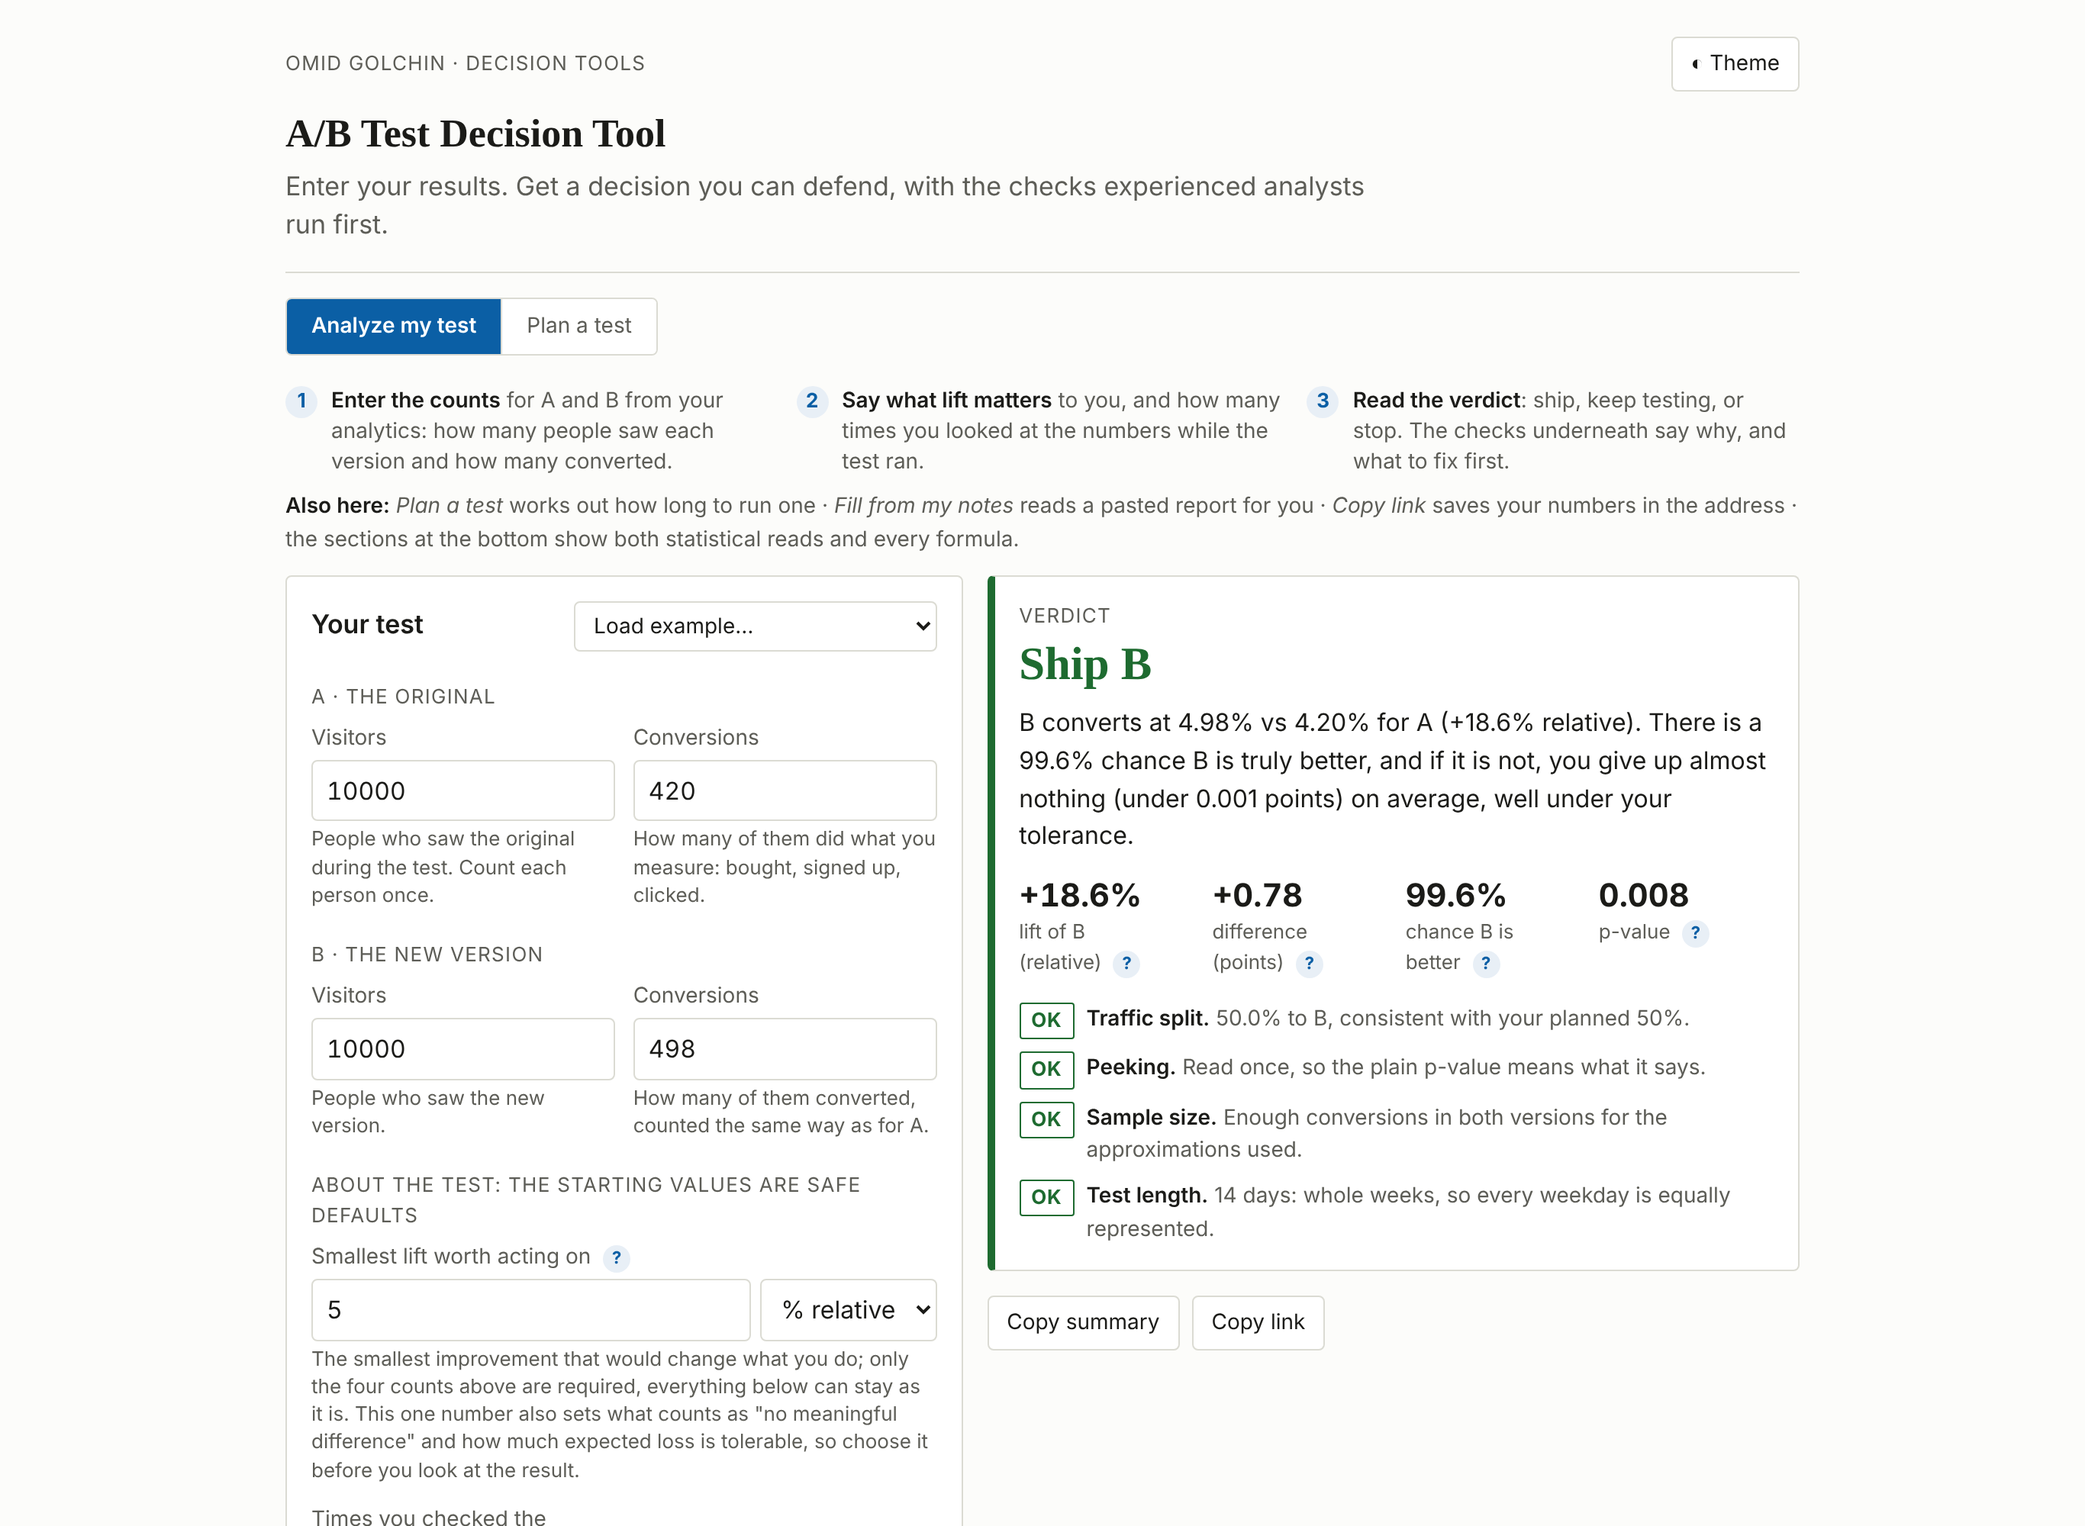
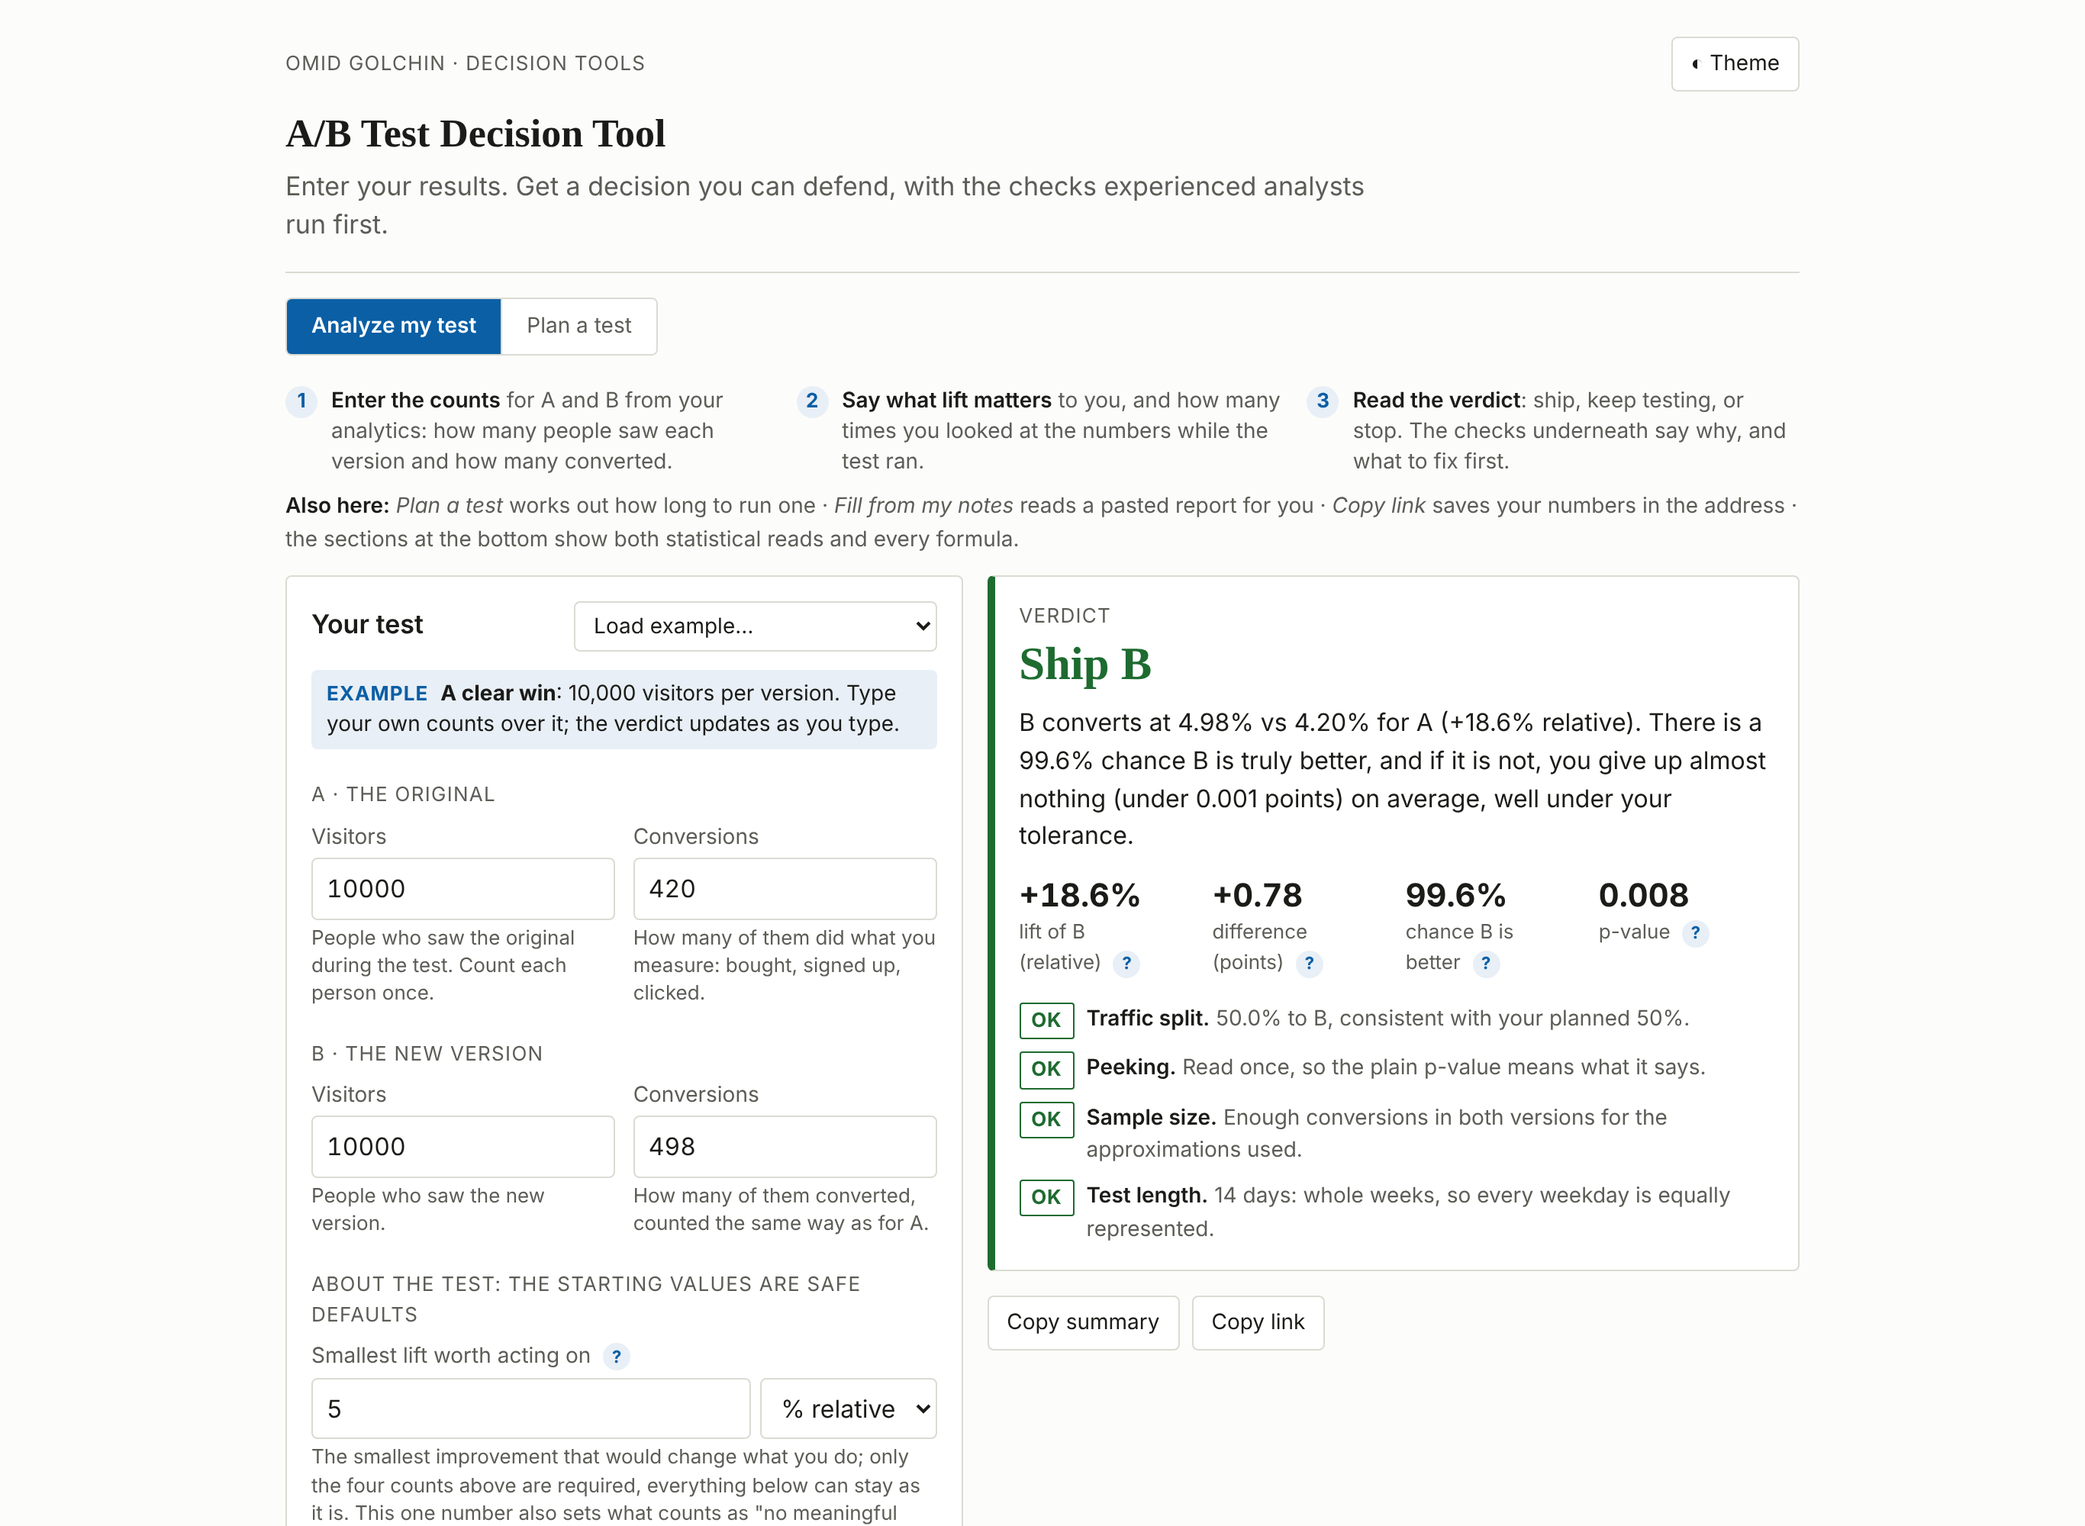
Mark the prefilled examples, plain error messages, one always-valid figure
- Analyze and Plan open with an example banner naming the prefilled scenario; it hides at the first edit and is skipped for shared links.
- Every input error now says what to enter. The significance-level check now matches the input's 0.1 to 20 range (it let values up to 50 through).
- Always-valid p-value: page and README state the same figure, 1.8% false alarms on the same 5,000 identical-arm tests that give 29% for a plain p-value; the README names the unit test's 5% bound separately.
- Kit: Tool.exampleWatch shows the example banner and hides it at the first real edit; the phone skip link is a 44px tap target; the shared tool list links the renamed llm-eval-error-bars.
- Hero GIF and screenshots regenerated from the updated page.

Changed region(s): [[0.1556, 0.434, 0.4356, 1.0]]

diff --git a/docs/app.js b/docs/app.js
@@ -19,6 +19,7 @@
     { label: "Cookie Cats: gate at level 30 vs 40, 1-day retention", v: { nA: 44700, xA: 20034, nB: 45489, xB: 20119, checks: 1, days: "", share: 50, mde: 1, mdeUnit: "rel", value: "" } },
     { label: "Cookie Cats: gate at level 30 vs 40, 7-day retention", v: { nA: 44700, xA: 8502, nB: 45489, xB: 8279, checks: 1, days: "", share: 50, mde: 2, mdeUnit: "rel", value: "" } }
   ];
+  var PLAN_EX_FIRST = "Busy checkout: 20,000 visitors a day at 4.2%";
   var IDS_A = ["nA", "xA", "nB", "xB", "checks", "days", "share", "mde", "mdeUnit", "value", "shipProb", "lossFrac", "prior", "alpha"];
   var IDS_P = ["pRate", "pMde", "pMdeUnit", "pTraffic", "pVersions", "pPower", "pAlpha"];
   var state = Tool.readParams(DEFAULTS);
@@ -32,10 +33,16 @@
   EXAMPLES.forEach(function (ex, i) { var o = document.createElement("option"); o.value = i; o.textContent = ex.label; $("example").appendChild(o); });
   $("example").addEventListener("change", function () {
     if (this.value === "") return;
-    setInputs(EXAMPLES[+this.value].v);
+    var ex = EXAMPLES[+this.value];
+    setInputs(ex.v);
     document.querySelectorAll(".field.filled").forEach(function (f) { f.classList.remove("filled"); });
+    Tool.exampleWatch($("f-analyze"), "<b>" + ex.label + "</b>. Type your own counts over it; the verdict updates as you type.");
     this.value = ""; runAnalyze();
   });
+  var q0 = new URLSearchParams(location.search);
+  function fromUrl(ids) { return ids.some(function (k) { return q0.has(k); }); }
+  if (!fromUrl(IDS_A)) Tool.exampleWatch($("f-analyze"), "<b>A clear win</b>: 10,000 visitors per version. Type your own counts over it; the verdict updates as you type.");
+  if (!fromUrl(IDS_P)) Tool.exampleWatch($("f-plan"), "<b>" + PLAN_EX_FIRST + "</b>. Type your own rate and traffic over it.");
   IDS_A.forEach(function (id) { $(id).addEventListener("input", debounce(runAnalyze, 120)); $(id).addEventListener("change", runAnalyze); });
   IDS_P.forEach(function (id) { $(id).addEventListener("input", debounce(runPlan, 120)); $(id).addEventListener("change", runPlan); });
   function setMode(m) {
@@ -84,17 +91,17 @@
       shipProb: num("shipProb"), lossFrac: num("lossFrac"), prior: $("prior").value, alpha: num("alpha") };
     var ok = true;
     function need(id, cond, msg) { var bad = !cond; fieldError(id, bad ? msg : ""); if (bad) ok = false; }
-    need("nA", v.nA > 0 && Number.isInteger(v.nA), "Whole number above 0.");
-    need("nB", v.nB > 0 && Number.isInteger(v.nB), "Whole number above 0.");
-    need("xA", v.xA !== null && v.xA >= 0 && Number.isInteger(v.xA) && (v.nA === null || v.xA <= v.nA), "Between 0 and the visitors.");
-    need("xB", v.xB !== null && v.xB >= 0 && Number.isInteger(v.xB) && (v.nB === null || v.xB <= v.nB), "Between 0 and the visitors.");
-    need("share", v.share > 0 && v.share < 100, "Between 1 and 99.");
-    need("mde", v.mde > 0, "Above 0.");
-    need("checks", v.checks >= 1 && Number.isInteger(v.checks), "1 or more.");
-    need("shipProb", v.shipProb >= 50 && v.shipProb < 100, "50 to 99.9.");
-    need("lossFrac", v.lossFrac > 0 && v.lossFrac <= 100, "1 to 100.");
-    need("alpha", v.alpha > 0 && v.alpha < 50, "0.1 to 20.");
-    fieldError("days", v.days !== null && v.days < 0 ? "0 or more." : "");
+    need("nA", v.nA > 0 && Number.isInteger(v.nA), "Enter how many visitors saw A, as a whole number such as 10000.");
+    need("nB", v.nB > 0 && Number.isInteger(v.nB), "Enter how many visitors saw B, as a whole number such as 10000.");
+    need("xA", v.xA !== null && v.xA >= 0 && Number.isInteger(v.xA) && (v.nA === null || v.xA <= v.nA), "Enter A's conversions as a whole number, no more than A's visitors.");
+    need("xB", v.xB !== null && v.xB >= 0 && Number.isInteger(v.xB) && (v.nB === null || v.xB <= v.nB), "Enter B's conversions as a whole number, no more than B's visitors.");
+    need("share", v.share > 0 && v.share < 100, "Enter the planned share of traffic for B, from 1 to 99. Use 50 for an even split.");
+    need("mde", v.mde > 0, "Enter the smallest lift worth acting on, above 0, such as 5.");
+    need("checks", v.checks >= 1 && Number.isInteger(v.checks), "Enter how many times you looked at the results, as a whole number. Use 1 if you looked once.");
+    need("shipProb", v.shipProb >= 50 && v.shipProb < 100, "Enter a percentage from 50 to 99.9, such as 95.");
+    need("lossFrac", v.lossFrac > 0 && v.lossFrac <= 100, "Enter a percentage from 1 to 100, such as 10.");
+    need("alpha", v.alpha >= 0.1 && v.alpha <= 20, "Enter a percentage from 0.1 to 20, such as 5.");
+    fieldError("days", v.days !== null && v.days < 0 ? "Enter the days it has run, 0 or more, or leave it empty." : "");
     if (v.xA !== null && v.nA && v.xA === 0 && v.xB === 0) { fieldError("xA", "Need at least one conversion overall."); ok = false; }
     return ok ? v : null;
   }
@@ -308,6 +315,7 @@
     if (this.value === "") return;
     var ex = PLAN_EX[+this.value]; this.value = "";
     Object.keys(ex.v).forEach(function (k) { $(k).value = ex.v[k]; });
+    Tool.exampleWatch($("f-plan"), "<b>" + ex.label + "</b>. Type your own rate and traffic over it.");
     runPlan();
   });
   function runPlan() {
@@ -315,10 +323,10 @@
       pVersions: Number($("pVersions").value), pPower: Number($("pPower").value), pAlpha: num("pAlpha") };
     var ok = true;
     function need(id, cond, msg) { fieldError(id, cond ? "" : msg); if (!cond) ok = false; }
-    need("pRate", v.pRate > 0 && v.pRate < 100, "Between 0 and 100.");
-    need("pMde", v.pMde > 0, "Above 0.");
-    need("pTraffic", v.pTraffic > 0, "Above 0.");
-    need("pAlpha", v.pAlpha > 0 && v.pAlpha < 50, "0.1 to 20.");
+    need("pRate", v.pRate > 0 && v.pRate < 100, "Enter today's conversion rate as a percentage above 0 and below 100, such as 4.2.");
+    need("pMde", v.pMde > 0, "Enter the smallest lift worth detecting, above 0, such as 5.");
+    need("pTraffic", v.pTraffic > 0, "Enter the visitors per day who would enter the test, above 0.");
+    need("pAlpha", v.pAlpha >= 0.1 && v.pAlpha <= 20, "Enter a percentage from 0.1 to 20, such as 5.");
     var urlState = { mode: "plan" }; IDS_P.forEach(function (k) { urlState[k] = $(k).value; });
     Tool.writeParams(urlState);
     if (!ok) { $("pTitle").textContent = "Check the highlighted inputs"; $("pBody").textContent = ""; $("pKpis").innerHTML = ""; $("checksP").innerHTML = ""; return; }

diff --git a/docs/tool-common.js b/docs/tool-common.js
@@ -10,6 +10,7 @@
  *   Tool.siblings(currentRepo)     the "More tools" footer line, from one shared list
  *   Tool.tabs(tablist)             arrow-key support for a mode switch
  *   Tool.exampleBanner(form, text) marks prefilled example content where it sits
+ *   Tool.exampleWatch(form, text)  same, and hides it at the visitor's first edit
  *
  * No dependencies. Works from file:// and on GitHub Pages.
  */
@@ -497,7 +498,7 @@
     ["bayesian-ab-lab", "A/B Test Decision Tool"],
     ["queue-simulator", "Call Center Staffing Planner"],
     ["experiment-hazard-simulator", "Agent Eval Planner"],
-    ["llm-eval-error-bar", "Error Bars for LLM Evals"],
+    ["llm-eval-error-bars", "Error Bars for LLM Evals"],
     ["ordering-policy-tester", "Ordering Policy Tester"],
     ["order-quantity-planner", "Order Quantity Planner"],
     ["production-line-simulator", "Production Line Bottleneck Finder"],
@@ -549,6 +550,23 @@
     b.hidden = false;
     b.innerHTML = '<span class="ex-tag">Example</span> ' + text;
   }
+  // Show the banner now and hide it at the visitor's first real edit of the form.
+  // Programmatic fills (examples, URL state) do not fire trusted events, and the
+  // example menu itself (.example) is ignored, so loading another example keeps it.
+  function exampleWatch(form, text) {
+    if (!form) return;
+    exampleBanner(form, text);
+    if (form._exWatch) return;
+    form._exWatch = true;
+    var off = function (e) {
+      if (!e.isTrusted) return;
+      var t = e.target;
+      if (t && t.classList && (t.classList.contains("example") || t.closest(".ex-keep"))) return;
+      exampleBanner(form, null);
+    };
+    form.addEventListener("input", off);
+    form.addEventListener("change", off);
+  }
   // On narrow screens the inputs come first; give a way straight to the result.
   function jumpLinks() {
     document.querySelectorAll(".work").forEach(function (w, i) {
@@ -571,7 +589,7 @@
     });
   }
 
-  var api = { explain: explain, alignFields: alignFields, exampleBanner: exampleBanner, jumpLinks: jumpLinks, closeTip: closeTip, siblings: siblings, tabs: tabs, TOOLS: TOOLS, readParams: readParams, writeParams: writeParams, copy: copy, fmt: fmt, lineChart: lineChart, niceTicks: niceTicks, assist: assist, _buildPrompt: buildPrompt, _parseReply: parseReply, _quoteFound: quoteFound, _coerce: coerce };
+  var api = { explain: explain, alignFields: alignFields, exampleBanner: exampleBanner, exampleWatch: exampleWatch, jumpLinks: jumpLinks, closeTip: closeTip, siblings: siblings, tabs: tabs, TOOLS: TOOLS, readParams: readParams, writeParams: writeParams, copy: copy, fmt: fmt, lineChart: lineChart, niceTicks: niceTicks, assist: assist, _buildPrompt: buildPrompt, _parseReply: parseReply, _quoteFound: quoteFound, _coerce: coerce };
   if (typeof module !== "undefined" && module.exports) module.exports = api;
   if (typeof window !== "undefined") window.Tool = api;
 })();

diff --git a/docs/index.html b/docs/index.html
@@ -122,7 +122,7 @@
         <p><b>Stop: no meaningful difference</b> when the 90% interval for the difference sits inside ± the smallest lift worth acting on. This is an equivalence test (two one-sided tests; Schuirmann 1987): absence of a difference is shown, not assumed.</p>
         <p><b>Keep testing</b> otherwise, with the visitors still needed to detect your smallest worthwhile lift at 80% power.</p>
         <p><b>Traffic split check</b> (sample ratio mismatch): a chi-square test of the visitor counts against your planned split; flagged at p &lt; 0.001 (Kohavi, Tang &amp; Xu, <i>Trustworthy Online Controlled Experiments</i>, 2020, ch. 21).</p>
-        <p><b>Always-valid p-value</b>: the mixture sequential probability ratio test (Johari, Koomen, Pekelis &amp; Walsh, "Always valid inference", <i>Operations Research</i>, 2022), with the mixing scale set to your smallest worthwhile lift. It stays valid however often you look. In this repository's simulation (5,000 tests where A and B are identical, checked up to 40 times) it raised a false alarm in under 2% of tests; a plain p-value did so in 29%.</p>
+        <p><b>Always-valid p-value</b>: the mixture sequential probability ratio test (Johari, Koomen, Pekelis &amp; Walsh, "Always valid inference", <i>Operations Research</i>, 2022), with the mixing scale set to your smallest worthwhile lift. It stays valid however often you look. In this repository's simulation (5,000 tests where A and B are identical, checked up to 40 times) it raised a false alarm in 1.8% of tests; a plain p-value did so in 29% of the same tests.</p>
         <div class="formula">always-valid p = min(1, 1/Λ),  Λ = √(V/(V+τ²)) · exp( τ²·d² / (2V(V+τ²)) )
 d = rate_B − rate_A,  V = its variance,  τ = smallest lift worth acting on (points)</div>
         <p><b>Bayesian read</b>: Beta-binomial posteriors for each rate (Gelman et al., <i>Bayesian Data Analysis</i>, 3rd ed.); expected loss is the average conversion rate you give up if you pick the version that is in fact worse.</p>

diff --git a/docs/tool.css b/docs/tool.css
@@ -141,4 +141,5 @@ select.example { font-size: var(--fs-small); }
 .ex-banner { margin: 0 0 var(--sp-3); padding: 6px 10px; border-radius: var(--radius); background: var(--accent-soft); color: var(--fg); font-size: var(--fs-small); line-height: 1.45; }
 .ex-banner .ex-tag { display: inline-block; font-size: var(--fs-caption); font-weight: 700; letter-spacing: .04em; text-transform: uppercase; color: var(--accent); margin-right: 4px; }
 .jump { display: none; }
-@media (max-width: 820px) { .jump { display: inline-block; margin: 0 0 var(--sp-3); font-size: var(--fs-small); font-weight: 600; } }
+@media (max-width: 820px) { .jump { display: inline-flex; align-items: center; min-height: 44px; margin: 0 0 var(--sp-2); font-size: var(--fs-small); font-weight: 600; } }
+.ctl-grid .ctl-hint { display: block; margin-top: 4px; font-weight: 400; }

diff --git a/README.md b/README.md
@@ -30,7 +30,7 @@ For anyone who has run an A/B test and has to decide what to do next: enter visi
 ## Design decisions
 
 - **Ship needs both reads to agree.** The leader ships only if its chance of being better clears the bar (default 95%), its expected loss is under 10% of the smallest lift worth acting on (a "threshold of caring"), *and* the classic evidence is significant. A Bayesian rule alone can be peeked into false wins (see Research notes); a p-value alone says nothing about how costly a wrong call is.
-- **Always-valid p-value for repeated looks.** The mixture sequential probability ratio test (Johari, Koomen, Pekelis & Walsh 2022), the method behind commercial "check any time" testing. Its mixing scale is set to the smallest lift worth acting on. In this repo's simulation of 2,000 identical-arm tests checked 40 times, it raised a false alarm in under 5% (tested), against 29% for a plain p-value.
+- **Always-valid p-value for repeated looks.** The mixture sequential probability ratio test (Johari, Koomen, Pekelis & Walsh 2022), the method behind commercial "check any time" testing. Its mixing scale is set to the smallest lift worth acting on. In this repo's simulation of 5,000 identical-arm tests checked up to 40 times, it raised a false alarm in 1.8% of them, against 29% for a plain p-value on the same tests. A unit test reruns it on 2,000 fresh tests and fails if the rate reaches 5%.
 - **Sample ratio mismatch at p < 0.001.** The conventional threshold in large-scale experimentation (Kohavi, Tang & Xu 2020, ch. 21): strict enough not to cry wolf on every test, and a real mismatch is usually far below it.
 - **Equivalence by two one-sided tests.** "No meaningful difference" requires the 90% interval to sit inside ± the smallest worthwhile lift (Schuirmann 1987); a non-significant result alone is not evidence of no difference.
 - **Run length in whole weeks.** Weekday and weekend visitors behave differently; a test that ends mid-week over-weights some days.
